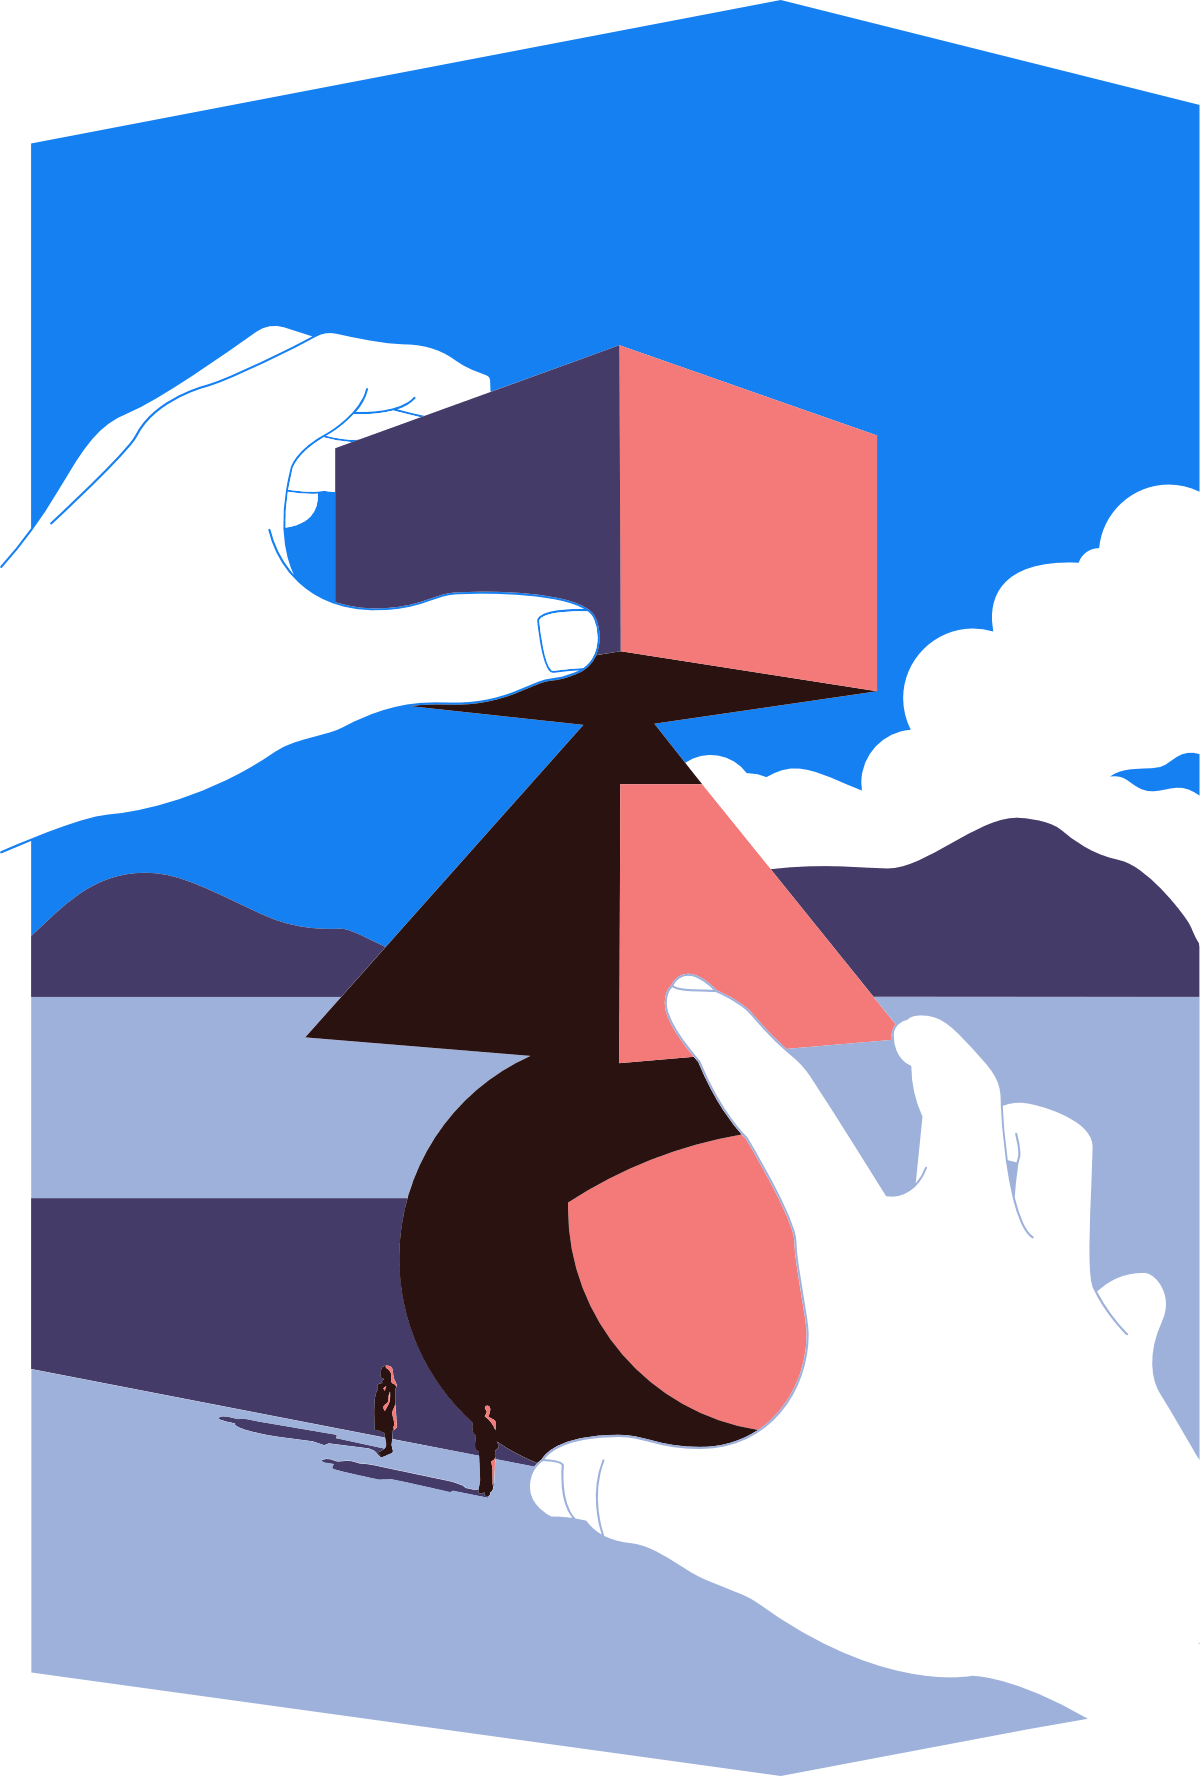
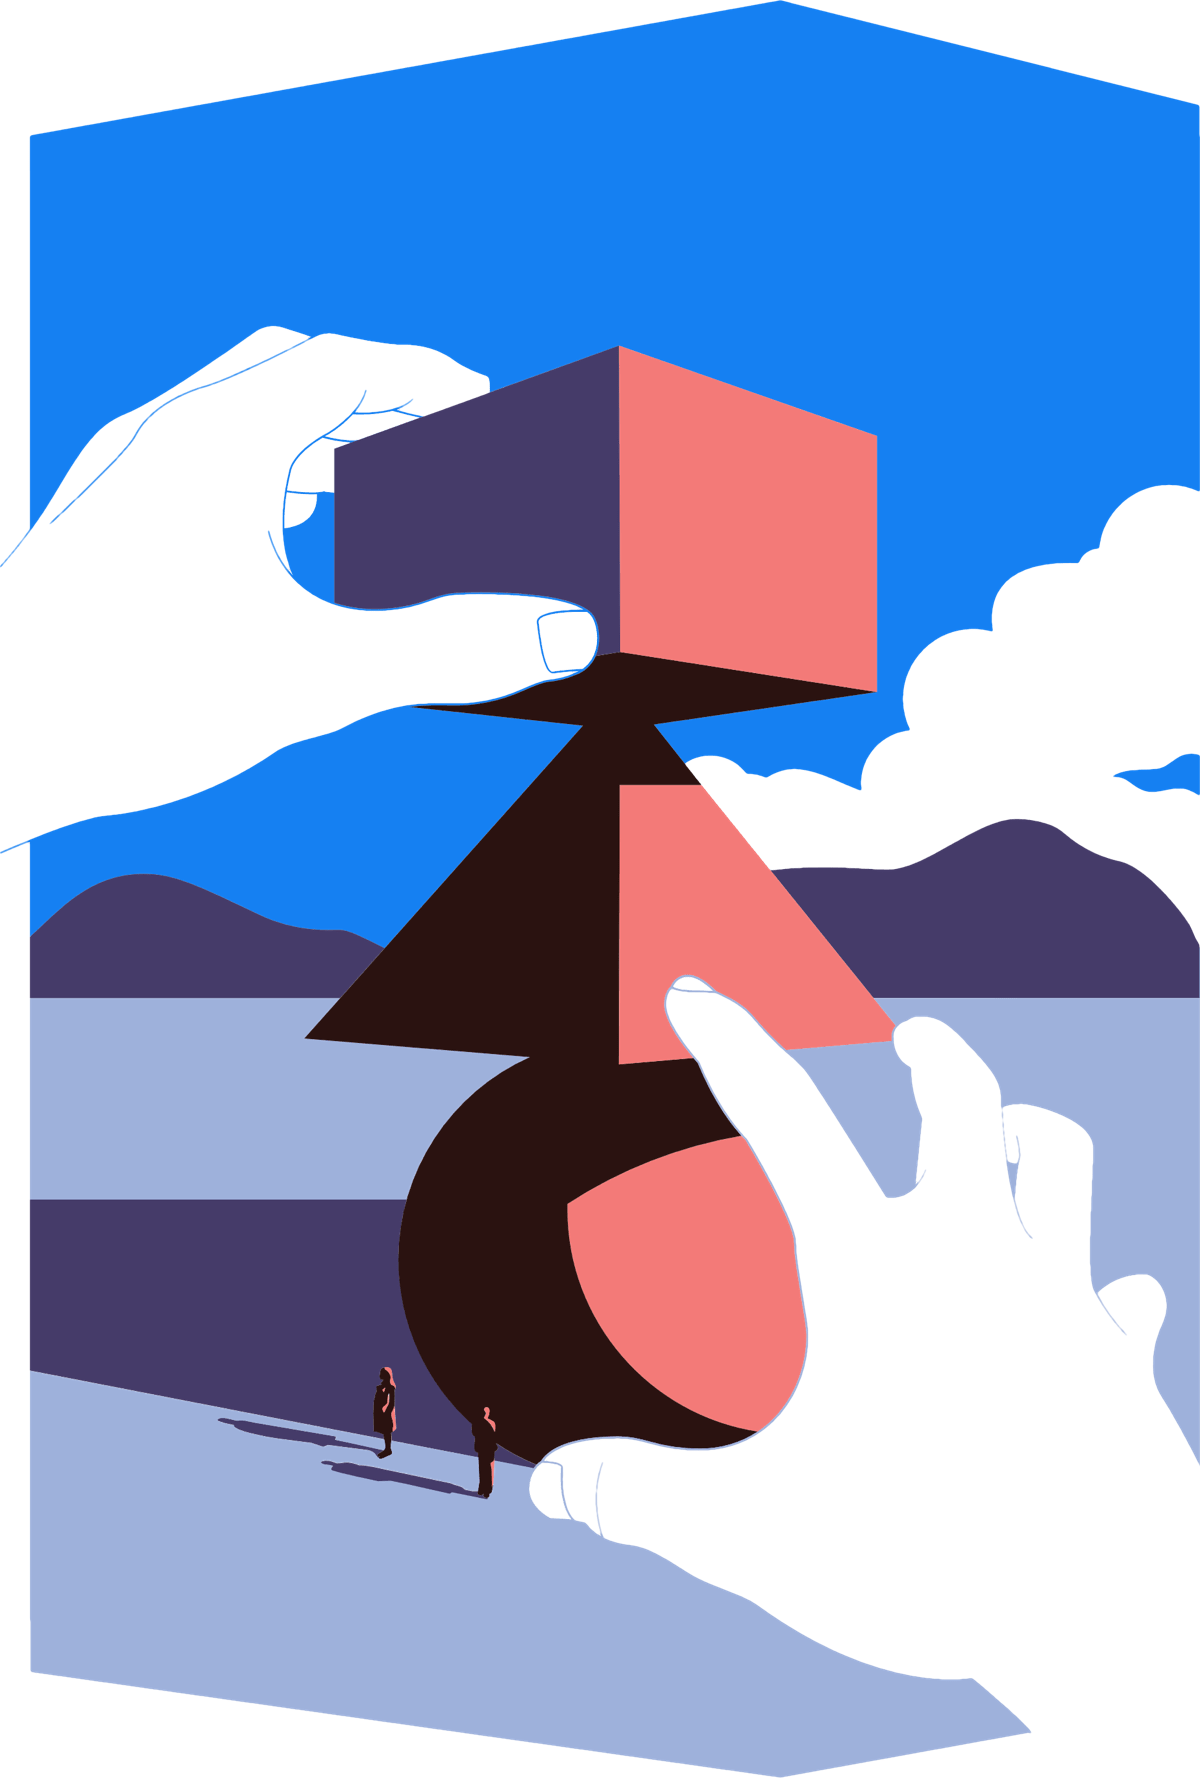
add final illustrations

diff --git a/src/ui/components/PagePlaybook/stylesheet.css b/src/ui/components/PagePlaybook/stylesheet.css
@@ -3,7 +3,9 @@
 @block list from "../../styles/blocks/list.block.css";
 @block offset from "../../styles/blocks/offset.block.css";
 @block typography from "../../styles/blocks/typography.block.css";
+@block fluid-image from "../../styles/blocks/fluid-image.block.css";
 @block header-content from "../HeaderContent/stylesheet.css";
+@block shape-image from "../ShapeImage/stylesheet.css";
 
 :scope {
   block-name: PagePlaybook;
@@ -24,6 +26,11 @@
   right: 0;
   height: auto;
   max-width: 40%;
+}
+
+.illustration {
+  width: resolve('fluid-image.image-clipped');
+  width: auto;
 }
 
 @media (max-width: 887px) {
@@ -47,4 +54,6 @@
 @export layout;
 @export offset;
 @export list;
+@export fluid-image;
 @export header-content;
+@export shape-image;

diff --git a/src/ui/components/ShapeImage/stylesheet.css b/src/ui/components/ShapeImage/stylesheet.css
@@ -4,7 +4,6 @@
   block-name: ShapeImage;
 
   position: relative;
-  background-color: #ccc;
   width: 100%;
   height: auto;
   padding-bottom: 120%;
